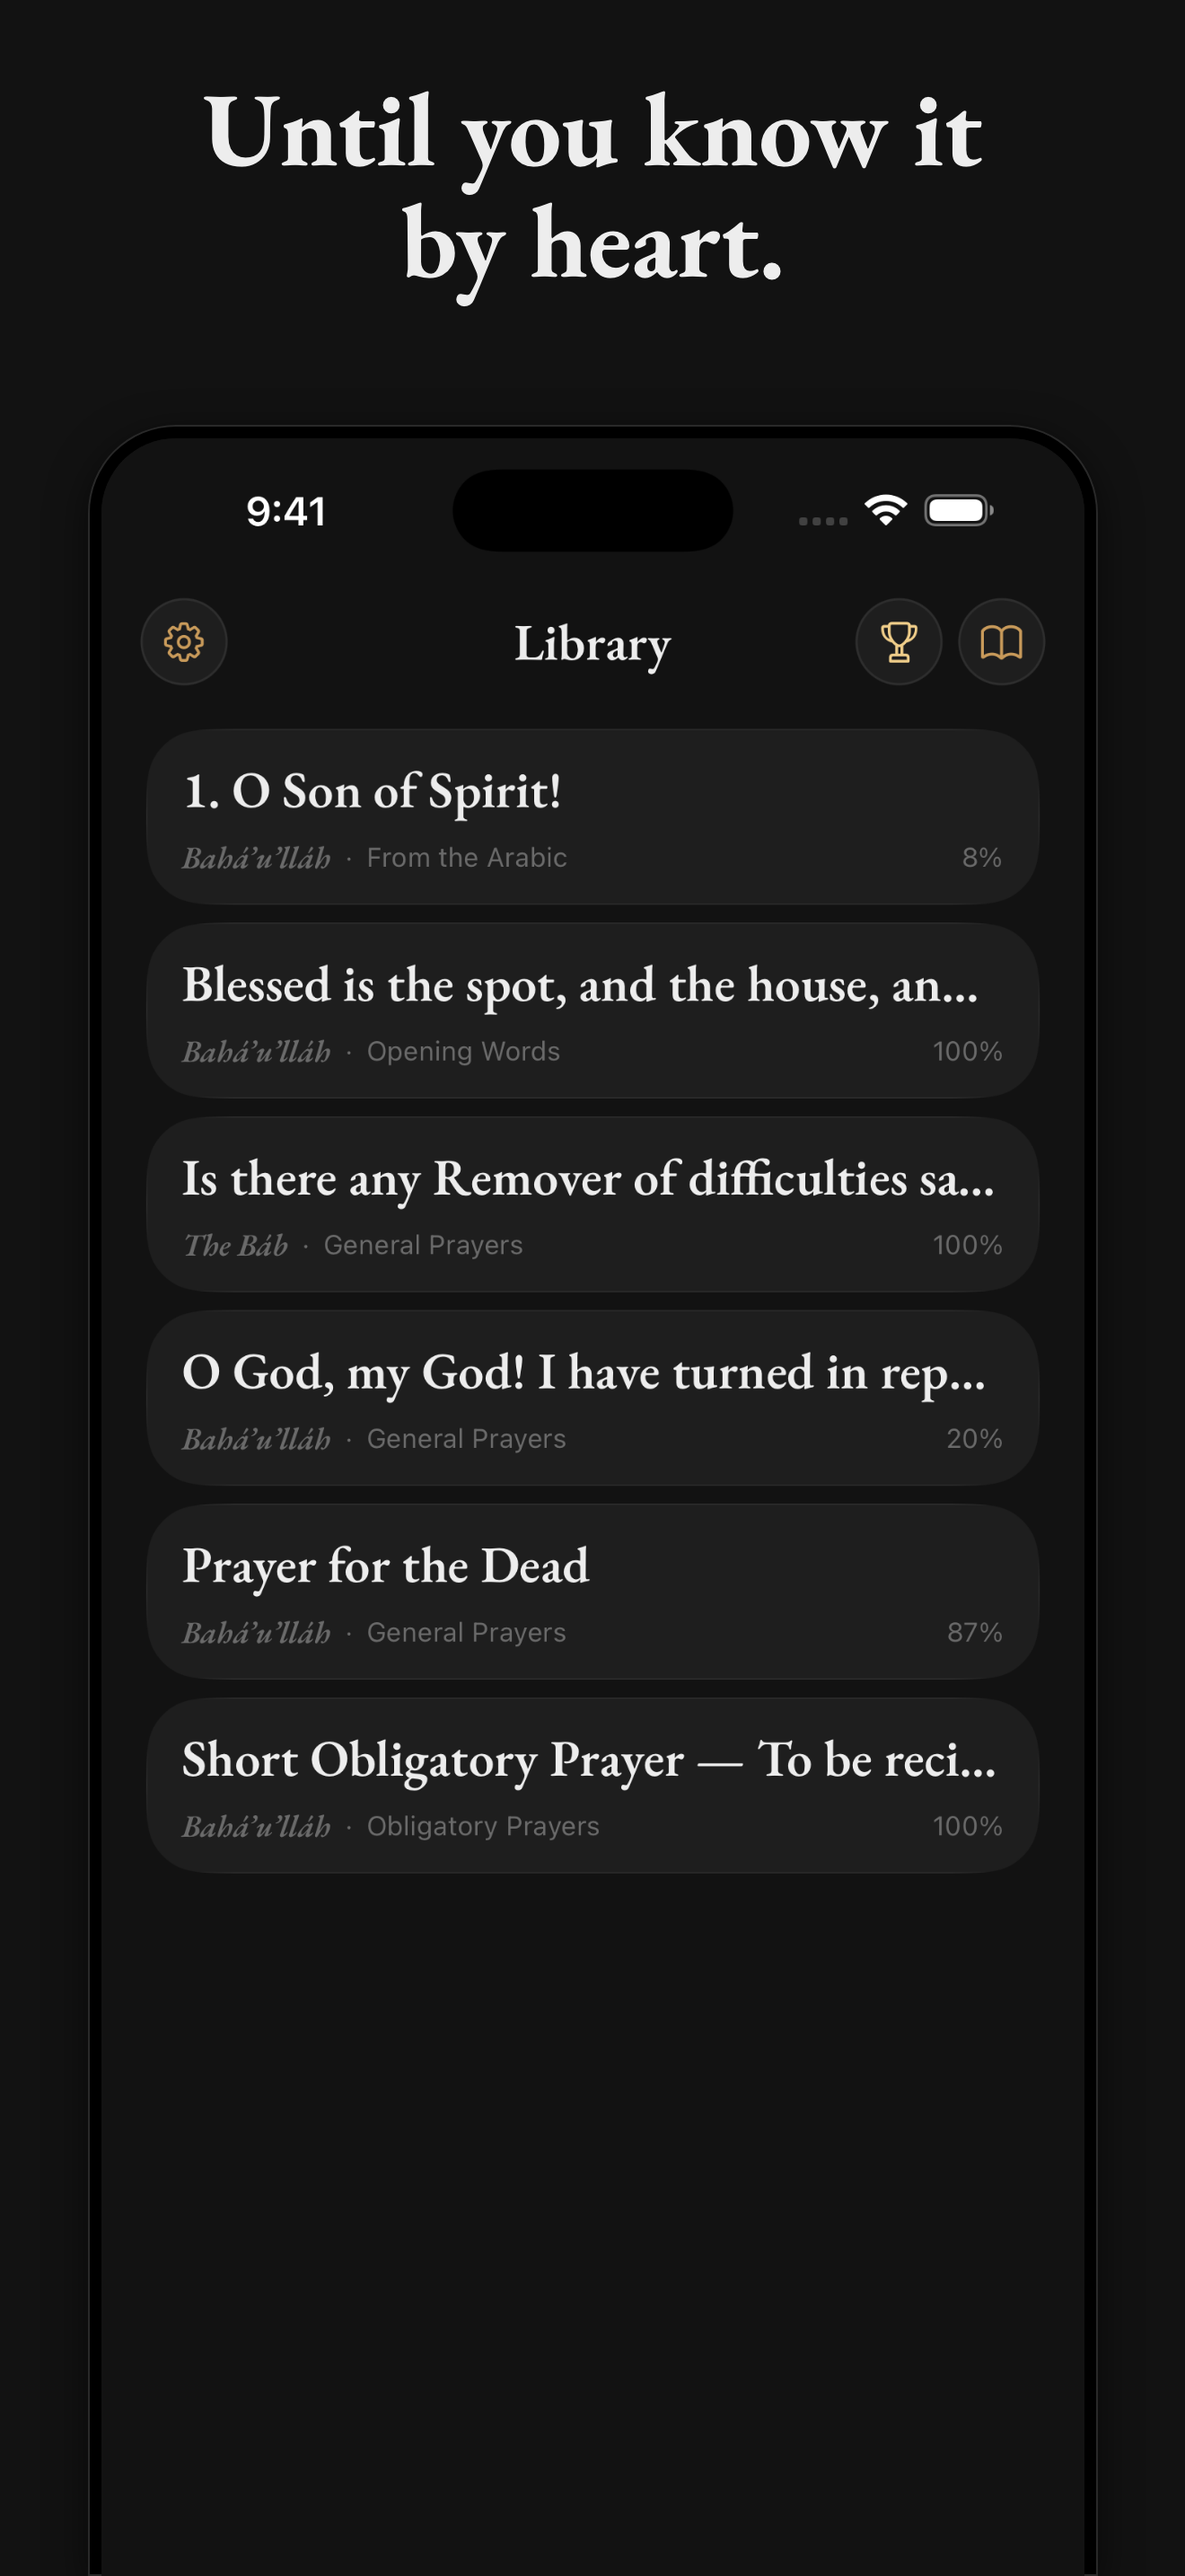
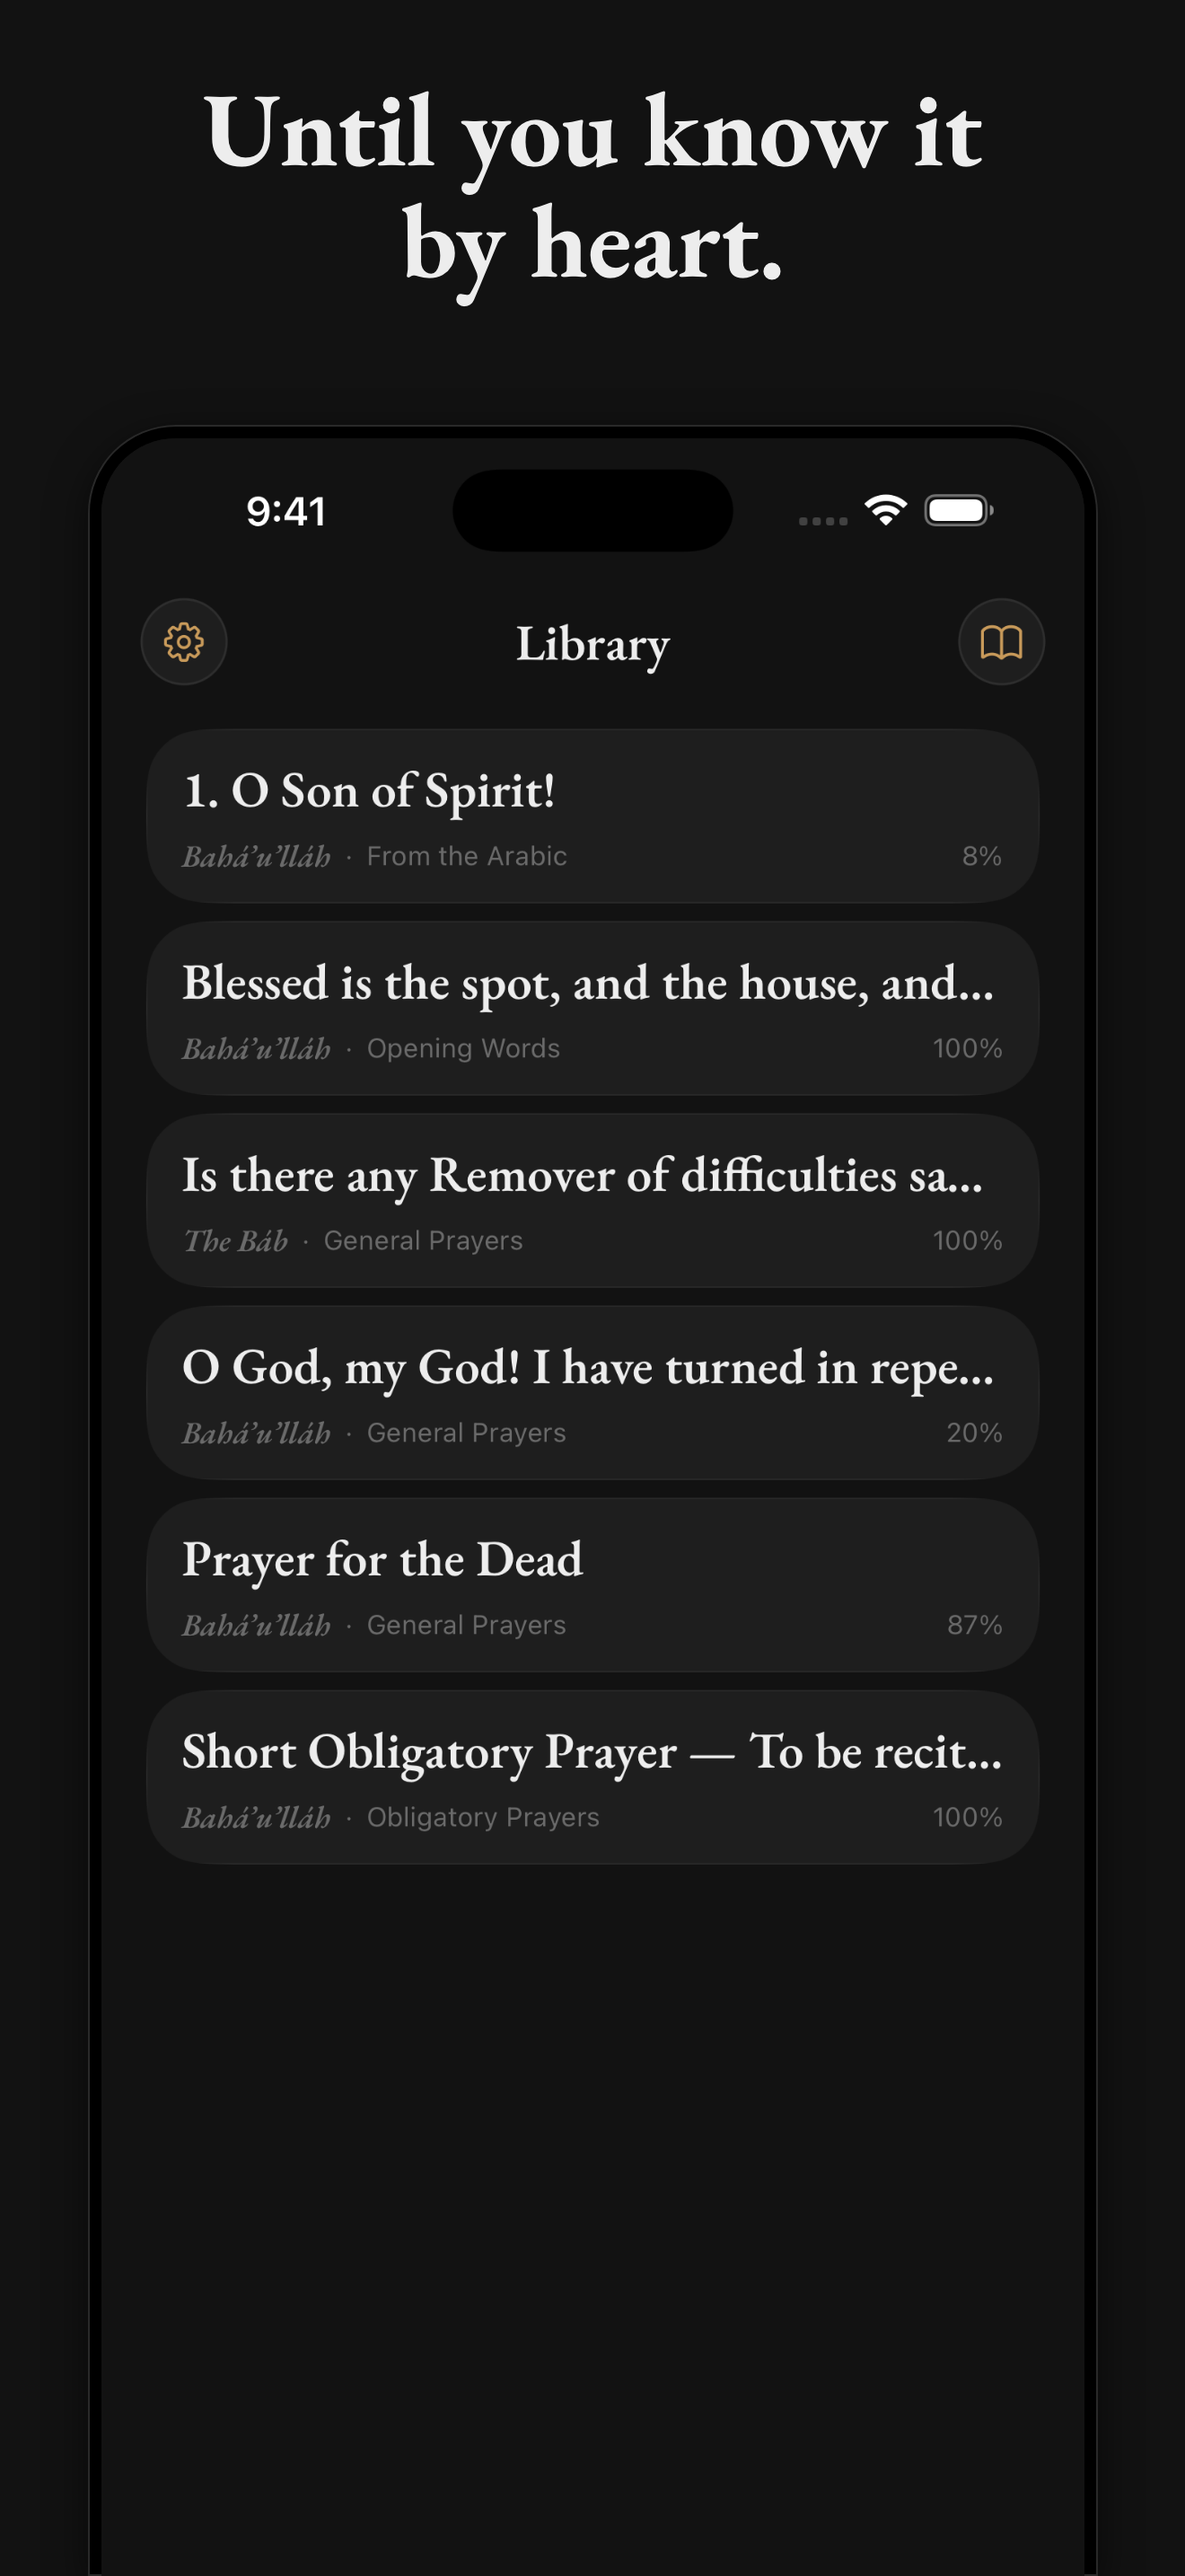
Write the 2.1 notes and restage the library tiles without the trophy
Claude-Session: https://claude.ai/code/session_01YJkdpjeQiDCN3rHwnQGCXE

diff --git a/MemorizationGame/Feature/ReleaseNotes/ReleaseNotes.swift b/MemorizationGame/Feature/ReleaseNotes/ReleaseNotes.swift
@@ -19,6 +19,27 @@ struct ReleaseNote: Identifiable {
 enum ReleaseNotes {
     static let all: [ReleaseNote] = [
         ReleaseNote(
+            version: "2.1",
+            headline: "The words in the app now grow with the text size on your phone.",
+            highlights: [
+                ReleaseHighlight(
+                    symbol: "textformat",
+                    title: "Bigger words",
+                    text: "If you make the words bigger on your phone, every part of this app gets bigger too. Nothing is left too small to read."
+                ),
+                ReleaseHighlight(
+                    symbol: "leaf",
+                    title: "No more trophies",
+                    text: "The trophy at the top of your library is gone. Now it is just you and the prayer."
+                ),
+                ReleaseHighlight(
+                    symbol: "waveform",
+                    title: "Clearer when read aloud",
+                    text: "If your phone reads the screen out loud, it now says the name of each button at the top."
+                )
+            ]
+        ),
+        ReleaseNote(
             version: "2.0.2",
             headline: "The last word you say now shows when you stop.",
             highlights: [

diff --git a/store-listing.md b/store-listing.md
@@ -27,6 +27,13 @@ No account. No sign-in. No ads. Your prayers, your progress, and your voice stay
 
 Hide what you know. Read what you don't. Come back tomorrow.
 
+## What's New — 2.1 (4000)
+Verses now follows the text size you set for your iPhone. Make the text bigger, and every part of the app grows with it — the prayer, the buttons, the labels, and the small print — so nothing is left too small to read.
+
+Achievements are gone. The app is now just you and the prayer.
+
+VoiceOver now names the buttons at the top of each screen, and the welcome tour and What's New fit when text is large.
+
 ## What's New — 2.0.2 (4000)
 When you stop at the end of a paragraph, its last word now shows right away. Before, it could wait until you said the next line.
 
